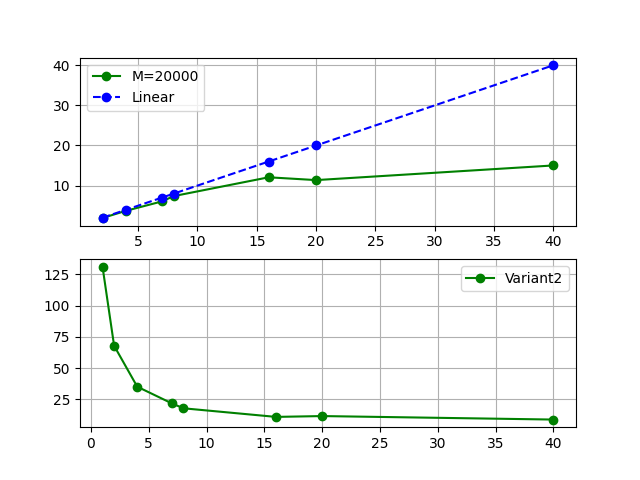
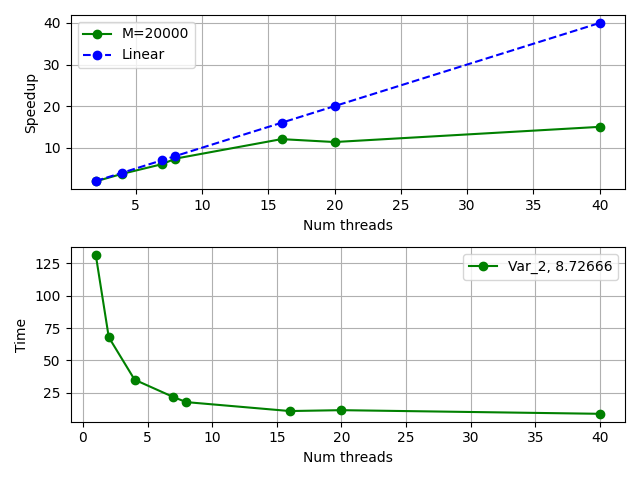
doing var1

diff --git a/lab_2/task_3/make_plot.py b/lab_2/task_3/make_plot.py
@@ -28,10 +28,16 @@ def main(type):
     ax1.plot(threads_arr[1:], threads_arr[1:], color='blue', linestyle='dashed', label='Linear', marker='o')  
     ax1.grid()
     ax1.legend()
+    ax1.set_xlabel('Num threads')
+    ax1.set_ylabel('Speedup')
 
-    ax2.plot(threads_arr, times, color = 'green', label='Variant2', marker='o')
+    ax2.plot(threads_arr, times, color = 'green', label=f'static, 100, {times[-1]}', marker='o')
     ax2.grid()
     ax2.legend()
+    ax2.set_xlabel('Num threads')
+    ax2.set_ylabel('Time')
+
+    plt.tight_layout()
     fig.savefig(f"speedups{type}.png")
 
-main(2)
+main(1)
